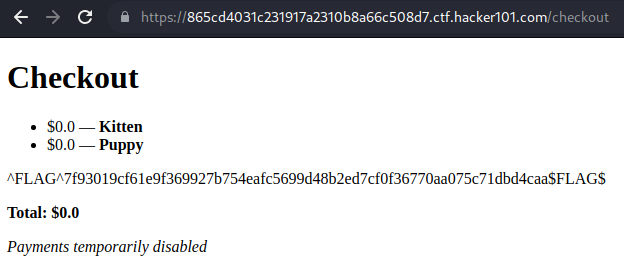
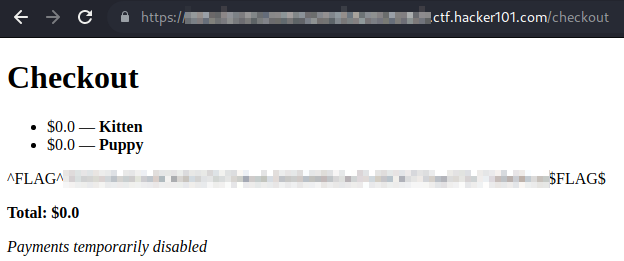
deploy: d0rksec/d0rksec.github.io-dev@83018b52a68894c0d9bd421110d4b9dfe1bed913

Changed region(s): [[0.0913, 0.6437, 0.883, 0.7356], [0.274, 0.0307, 0.7003, 0.092]]

diff --git a/writeups/h101/petshop_pro/index.html b/writeups/h101/petshop_pro/index.html
@@ -1,9 +1,9 @@
 <!doctype html><html lang=en dir=auto><head><meta charset=utf-8><meta http-equiv=x-ua-compatible content="IE=edge"><meta name=viewport content="width=device-width,initial-scale=1,shrink-to-fit=no"><meta name=robots content="index, follow"><title>Hacker101 - Petshop Pro | d0rksec</title><meta name=keywords content="Hacker101,THC Hydra,Dictionary Attack"><meta name=description content="Small webshop with login form to crack"><meta name=author content><link rel=canonical href=https://d0rksec.github.io/writeups/h101/petshop_pro/><link crossorigin=anonymous href=/assets/css/stylesheet.aa8a0c4802ee570e352291e58d608e6b99d48ef678aa4be907095a212e60d6e9.css integrity="sha256-qooMSALuVw41IpHljWCOa5nUjvZ4qkvpBwlaIS5g1uk=" rel="preload stylesheet" as=style><script defer crossorigin=anonymous src=/assets/js/highlight.f413e19d0714851f6474e7ee9632408e58ac146fbdbe62747134bea2fa3415e0.js integrity="sha256-9BPhnQcUhR9kdOfuljJAjlisFG+9vmJ0cTS+ovo0FeA=" onload=hljs.initHighlightingOnLoad()></script>
-<link rel=icon href=https://d0rksec.github.io/favicon.ico><link rel=icon type=image/png sizes=16x16 href=https://d0rksec.github.io/favicon-16x16.png><link rel=icon type=image/png sizes=32x32 href=https://d0rksec.github.io/favicon-32x32.png><link rel=apple-touch-icon href=https://d0rksec.github.io/apple-touch-icon.png><link rel=mask-icon href=https://d0rksec.github.io/safari-pinned-tab.svg><meta name=theme-color content="#2e2e33"><meta name=msapplication-TileColor content="#2e2e33"><noscript><style>#theme-toggle,.top-link{display:none}</style></noscript><meta property="og:title" content="Hacker101 - Petshop Pro"><meta property="og:description" content="Small webshop with login form to crack"><meta property="og:type" content="article"><meta property="og:url" content="https://d0rksec.github.io/writeups/h101/petshop_pro/"><meta property="article:section" content="writeups"><meta property="article:published_time" content="2022-10-16T14:47:35+02:00"><meta property="article:modified_time" content="2022-10-16T14:47:35+02:00"><meta name=twitter:card content="summary"><meta name=twitter:title content="Hacker101 - Petshop Pro"><meta name=twitter:description content="Small webshop with login form to crack"><script type=application/ld+json>{"@context":"https://schema.org","@type":"BreadcrumbList","itemListElement":[{"@type":"ListItem","position":1,"name":"Writeups","item":"https://d0rksec.github.io/writeups/"},{"@type":"ListItem","position":2,"name":"Hacker101","item":"https://d0rksec.github.io/writeups/h101/"},{"@type":"ListItem","position":3,"name":"Hacker101 - Petshop Pro","item":"https://d0rksec.github.io/writeups/h101/petshop_pro/"}]}</script><script type=application/ld+json>{"@context":"https://schema.org","@type":"BlogPosting","headline":"Hacker101 - Petshop Pro","name":"Hacker101 - Petshop Pro","description":"Small webshop with login form to crack","keywords":["Hacker101","THC Hydra","Dictionary Attack"],"articleBody":"What A small webshop with username/password authentication to crack.\nDifficulty: Easy\nFlag0 Hint0: Something looks out of place with checkout Let’s fire up Burp, set Scope, turn off intercept and just walk through the application. This will create a Site map on Target tab.\nI’ve added both images to the cart and examined the checkout request.\nOn the Checkout page we can see “Payments temporarily disabled”.\nHint1: It’s always nice to get free stuff Cart value is passed to the server as URL encoded string. We can use Burp Inspector’s Decode feature to read it as JSON.\n[[0, {\"logo\": \"kitten.jpg\", \"price\": 8.95, \"name\": \"Kitten\", \"desc\": \"8\\\"x10\\\" color glossy photograph of a kitten.\"}]] How about changing the price to 0.00? We can now turn Burp’s intercept on and hit Check Out again.\nNow forward the edited request and grab the free stuff plus the first FLAG.\nFlag1 Hint0: There must be a way to administer the app It is common to have an admin page, even for small sites. They also tend to share common names, like /admin.php.\nTo access admin pages, users must authenticate themselves, using pages like /login.php.\nHint1: Tools may help you find the entrypoint Sure. Let’s check what other pages are there. For this, I used gobuster with a command:\ngobuster dir -u https://20b754ee126051b8cd51afc718af76db.ctf.hacker101.com/ -w /usr/share/wordlists/dirbuster/directory-list-lowercase-2.3-small.txt -z -t 100 -u -w (start with a smaller list for low-hanging fruits)\n-t (default is 10)\n-z (to turn off the annoying “Progress” messages and show only hits)\nGobuster repo and full description for dir mode here.\nCheck the first result (note that the results are folders): Hint2: Tools are also great for finding credentials To see how the page responds, I shoot admin / password credentials:\nYou can see, the error handling gives us too much info about what’s wrong here (“Invalid username”). Better practice is to show “Invalid username or password”, as the attacker has to brute force all combinations of usernames and passwords.\nIn our case, we have to find a correct username first, then we can go for the valid password.\nI’ll brute force username with Hydra, using a wordlist for usernames from SecLists.\nhydra -L ~/repo/SecLists/Usernames/Names/names.txt -p \"password\" 20b754ee126051b8cd51afc718af76db.ctf.hacker101.com https-post-form \"/login:username=^USER^\u0026password=^PASS^:Invalid username\" We’be got the username. Let’s go for the password. I’ll use the same wordlist.\nhydra -l aimil -P ~/repo/SecLists/Usernames/Names/names.txt 20b754ee126051b8cd51afc718af76db.ctf.hacker101.com https-post-form \"/login:username=^USER^\u0026password=^PASS^:Invalid password\" We can use the credentials on /login. It will reveal the Edit feature below the images and show us the second FLAG.\nFlag2 Hint0: Always test every input Now that we are able to edit the product’s parameters, let’s try some basic XSS on the input fields. I’ll use numbers in alert messages to see which attack was successful.\nInternal Server Error.. OK, let’s try them one-by-one, starting with Name.\nSaved the changes, back to Home page. The pop-up message says that Name field is vulnerable to XSS.\nRestore Name to Kitten and add payload to Description. Save.\nBack to Home page. Our XSS on Description field has also worked.\nRemove payload from Description and add to Price.\nAfter saving, the Internal Server Error is back. At least, we know which field has caused it.\nBut, where’s my FLAG?\nHint1: Bugs don’t always appear in a place where the data is entered Let’s put the payload back to Name field, hit Save and head to Home page. Add a Kitten to the Cart.\nThe FLAG is included in the Shopping Cart.\nTakeaway(s) Look what parameters are passed with the form Web login hack can take some time on a VM, relax ","wordCount":"594","inLanguage":"en","datePublished":"2022-10-16T14:47:35+02:00","dateModified":"2022-10-16T14:47:35+02:00","mainEntityOfPage":{"@type":"WebPage","@id":"https://d0rksec.github.io/writeups/h101/petshop_pro/"},"publisher":{"@type":"Organization","name":"d0rksec","logo":{"@type":"ImageObject","url":"https://d0rksec.github.io/favicon.ico"}}}</script></head><body class=dark id=top><script>localStorage.getItem("pref-theme")==="light"&&document.body.classList.remove("dark")</script><header class=header><nav class=nav><div class=logo><a href=https://d0rksec.github.io/ accesskey=h title="d0rksec (Alt + H)">d0rksec</a><div class=logo-switches><button id=theme-toggle accesskey=t title="(Alt + T)"><svg id="moon" xmlns="http://www.w3.org/2000/svg" width="24" height="24" viewBox="0 0 24 24" fill="none" stroke="currentcolor" stroke-width="2" stroke-linecap="round" stroke-linejoin="round"><path d="M21 12.79A9 9 0 1111.21 3 7 7 0 0021 12.79z"/></svg><svg id="sun" xmlns="http://www.w3.org/2000/svg" width="24" height="24" viewBox="0 0 24 24" fill="none" stroke="currentcolor" stroke-width="2" stroke-linecap="round" stroke-linejoin="round"><circle cx="12" cy="12" r="5"/><line x1="12" y1="1" x2="12" y2="3"/><line x1="12" y1="21" x2="12" y2="23"/><line x1="4.22" y1="4.22" x2="5.64" y2="5.64"/><line x1="18.36" y1="18.36" x2="19.78" y2="19.78"/><line x1="1" y1="12" x2="3" y2="12"/><line x1="21" y1="12" x2="23" y2="12"/><line x1="4.22" y1="19.78" x2="5.64" y2="18.36"/><line x1="18.36" y1="5.64" x2="19.78" y2="4.22"/></svg></button></div></div><ul id=menu><li><a href=https://d0rksec.github.io/categories/ title=categories><span>categories</span></a></li><li><a href=https://d0rksec.github.io/tags/ title=tags><span>tags</span></a></li><li><a href=https://d0rksec.github.io/search/ title="search (Alt + /)" accesskey=/><span>search</span></a></li><li><a href=https://d0rksec.github.io/archives/ title=archives><span>archives</span></a></li><li><a href=https://d0rksec.github.io/about title=about><span>about</span></a></li></ul></nav></header><main class=main><article class=post-single><header class=post-header><div class=breadcrumbs><a href=https://d0rksec.github.io/>Home</a>&nbsp;»&nbsp;<a href=https://d0rksec.github.io/writeups/>Writeups</a>&nbsp;»&nbsp;<a href=https://d0rksec.github.io/writeups/h101/>Hacker101</a></div><h1 class=post-title>Hacker101 - Petshop Pro</h1><div class=post-meta><span title='2022-10-16 14:47:35 +0200 +0200'>October 16, 2022</span>&nbsp;·&nbsp;3 min</div></header><div class=toc><details><summary accesskey=c title="(Alt + C)"><span class=details>On this page</span></summary><div class=inner><ul><li><a href=#what aria-label=What>What</a></li><li><a href=#flag0 aria-label=Flag0>Flag0</a><ul><li><a href=#hint0-something-looks-out-of-place-with-checkout aria-label="Hint0: Something looks out of place with checkout">Hint0: Something looks out of place with checkout</a></li><li><a href=#hint1-its-always-nice-to-get-free-stuff aria-label="Hint1: It&amp;rsquo;s always nice to get free stuff">Hint1: It&rsquo;s always nice to get free stuff</a></li></ul></li><li><a href=#flag1 aria-label=Flag1>Flag1</a><ul><li><a href=#hint0-there-must-be-a-way-to-administer-the-app aria-label="Hint0: There must be a way to administer the app">Hint0: There must be a way to administer the app</a></li><li><a href=#hint1-tools-may-help-you-find-the-entrypoint aria-label="Hint1: Tools may help you find the entrypoint">Hint1: Tools may help you find the entrypoint</a></li><li><a href=#hint2-tools-are-also-great-for-finding-credentials aria-label="Hint2: Tools are also great for finding credentials">Hint2: Tools are also great for finding credentials</a></li></ul></li><li><a href=#flag2 aria-label=Flag2>Flag2</a><ul><li><a href=#hint0-always-test-every-input aria-label="Hint0: Always test every input">Hint0: Always test every input</a></li><li><a href=#hint1-bugs-dont-always-appear-in-a-place-where-the-data-is-entered aria-label="Hint1: Bugs don&amp;rsquo;t always appear in a place where the data is entered">Hint1: Bugs don&rsquo;t always appear in a place where the data is entered</a></li></ul></li><li><a href=#takeaways aria-label=Takeaway(s)>Takeaway(s)</a></li></ul></div></details></div><div class=post-content><h3 id=what>What<a hidden class=anchor aria-hidden=true href=#what>#</a></h3><p>A small webshop with username/password authentication to crack.</p><p><img loading=lazy src=Petshop_Pro-home.png alt="Home page"></p><p>Difficulty: Easy</p><h3 id=flag0>Flag0<a hidden class=anchor aria-hidden=true href=#flag0>#</a></h3><h4 id=hint0-something-looks-out-of-place-with-checkout>Hint0: Something looks out of place with checkout<a hidden class=anchor aria-hidden=true href=#hint0-something-looks-out-of-place-with-checkout>#</a></h4><p>Let&rsquo;s fire up Burp, set Scope, turn off intercept and just walk through the application. This will create a Site map on Target tab.</p><p>I&rsquo;ve added both images to the cart and examined the checkout request.</p><p>On the Checkout page we can see <em>&ldquo;Payments temporarily disabled&rdquo;</em>.</p><p><img loading=lazy src=./flag0/Petshop_Pro-F0-H0-0-checkout.png alt=Checkout></p><h4 id=hint1-its-always-nice-to-get-free-stuff>Hint1: It&rsquo;s always nice to get free stuff<a hidden class=anchor aria-hidden=true href=#hint1-its-always-nice-to-get-free-stuff>#</a></h4><p>Cart value is passed to the server as URL encoded string. We can use Burp Inspector&rsquo;s Decode feature to read it as JSON.</p><p><img loading=lazy src=./flag0/Petshop_Pro-F0-H1-0-burp.png alt="cart as JSON"></p><div class=highlight><pre tabindex=0 style=color:#f8f8f2;background-color:#272822;-moz-tab-size:4;-o-tab-size:4;tab-size:4><code class=language-json data-lang=json><span style=display:flex><span>[[<span style=color:#ae81ff>0</span>, {<span style=color:#f92672>&#34;logo&#34;</span>: <span style=color:#e6db74>&#34;kitten.jpg&#34;</span>, <span style=color:#f92672>&#34;price&#34;</span>: <span style=color:#ae81ff>8.95</span>, <span style=color:#f92672>&#34;name&#34;</span>: <span style=color:#e6db74>&#34;Kitten&#34;</span>, <span style=color:#f92672>&#34;desc&#34;</span>: <span style=color:#e6db74>&#34;8\&#34;x10\&#34; color glossy photograph of a kitten.&#34;</span>}]]
-</span></span></code></pre></div><p>How about changing the price to <code>0.00</code>? We can now turn Burp&rsquo;s intercept on and hit Check Out again.</p><p><img loading=lazy src=./flag0/Petshop_Pro-F0-H1-1-edit-price.png alt="Edit price"></p><p>Now forward the edited request and grab the free stuff plus the first FLAG.</p><p><img loading=lazy src=./flag0/Petshop_Pro-F0-H1-2-FLAG.png alt=FLAG></p><h3 id=flag1>Flag1<a hidden class=anchor aria-hidden=true href=#flag1>#</a></h3><h4 id=hint0-there-must-be-a-way-to-administer-the-app>Hint0: There must be a way to administer the app<a hidden class=anchor aria-hidden=true href=#hint0-there-must-be-a-way-to-administer-the-app>#</a></h4><p>It is common to have an admin page, even for small sites. They also tend to share common names, like <code>/admin.php</code>.</p><p>To access admin pages, users must authenticate themselves, using pages like <code>/login.php</code>.</p><h4 id=hint1-tools-may-help-you-find-the-entrypoint>Hint1: Tools may help you find the entrypoint<a hidden class=anchor aria-hidden=true href=#hint1-tools-may-help-you-find-the-entrypoint>#</a></h4><p>Sure. Let&rsquo;s check what other pages are there. For this, I used gobuster with a command:</p><p><img loading=lazy src=./flag1/Petshop_Pro-F1-H1-0-gobuster-command.png alt="gobuster command"></p><div class=highlight><pre tabindex=0 style=color:#f8f8f2;background-color:#272822;-moz-tab-size:4;-o-tab-size:4;tab-size:4><code class=language-bash data-lang=bash><span style=display:flex><span>gobuster dir -u https://20b754ee126051b8cd51afc718af76db.ctf.hacker101.com/ -w /usr/share/wordlists/dirbuster/directory-list-lowercase-2.3-small.txt -z -t <span style=color:#ae81ff>100</span>
+<link rel=icon href=https://d0rksec.github.io/favicon.ico><link rel=icon type=image/png sizes=16x16 href=https://d0rksec.github.io/favicon-16x16.png><link rel=icon type=image/png sizes=32x32 href=https://d0rksec.github.io/favicon-32x32.png><link rel=apple-touch-icon href=https://d0rksec.github.io/apple-touch-icon.png><link rel=mask-icon href=https://d0rksec.github.io/safari-pinned-tab.svg><meta name=theme-color content="#2e2e33"><meta name=msapplication-TileColor content="#2e2e33"><noscript><style>#theme-toggle,.top-link{display:none}</style></noscript><meta property="og:title" content="Hacker101 - Petshop Pro"><meta property="og:description" content="Small webshop with login form to crack"><meta property="og:type" content="article"><meta property="og:url" content="https://d0rksec.github.io/writeups/h101/petshop_pro/"><meta property="article:section" content="writeups"><meta property="article:published_time" content="2022-10-16T14:47:35+02:00"><meta property="article:modified_time" content="2022-10-16T14:47:35+02:00"><meta name=twitter:card content="summary"><meta name=twitter:title content="Hacker101 - Petshop Pro"><meta name=twitter:description content="Small webshop with login form to crack"><script type=application/ld+json>{"@context":"https://schema.org","@type":"BreadcrumbList","itemListElement":[{"@type":"ListItem","position":1,"name":"Writeups","item":"https://d0rksec.github.io/writeups/"},{"@type":"ListItem","position":2,"name":"Hacker101","item":"https://d0rksec.github.io/writeups/h101/"},{"@type":"ListItem","position":3,"name":"Hacker101 - Petshop Pro","item":"https://d0rksec.github.io/writeups/h101/petshop_pro/"}]}</script><script type=application/ld+json>{"@context":"https://schema.org","@type":"BlogPosting","headline":"Hacker101 - Petshop Pro","name":"Hacker101 - Petshop Pro","description":"Small webshop with login form to crack","keywords":["Hacker101","THC Hydra","Dictionary Attack"],"articleBody":"What A small webshop with username/password authentication to crack.\nDifficulty: Easy\nFlag0 Hint0: Something looks out of place with checkout Let’s fire up Burp, set Scope, turn off intercept and just walk through the application. This will create a Site map on Target tab.\nI’ve added both images to the cart and examined the checkout request.\nOn the Checkout page we can see “Payments temporarily disabled”.\nHint1: It’s always nice to get free stuff Cart value is passed to the server as URL encoded string. We can use Burp Inspector’s Decode feature to read it as JSON.\n[[0, {\"logo\": \"kitten.jpg\", \"price\": 8.95, \"name\": \"Kitten\", \"desc\": \"8\\\"x10\\\" color glossy photograph of a kitten.\"}]] How about changing the price to 0.00? We can now turn Burp’s intercept on and hit Check Out again.\nNow forward the edited request and grab the free stuff plus the first FLAG.\nFlag1 Hint0: There must be a way to administer the app It is common to have an admin page, even for small sites. They also tend to share common names, like /admin.php.\nTo access admin pages, users must authenticate themselves, using pages like /login.php.\nHint1: Tools may help you find the entrypoint Sure. Let’s check what other pages are there. For this, I used gobuster with a command:\ngobuster dir -u https://IAMSOSORRY.ctf.hacker101.com/ -w /usr/share/wordlists/dirbuster/directory-list-lowercase-2.3-small.txt -z -t 100 -u -w (start with a smaller list for low-hanging fruits)\n-t (default is 10)\n-z (to turn off the annoying “Progress” messages and show only hits)\nGobuster repo and full description for dir mode here.\nCheck the first result (note that the results are folders): Hint2: Tools are also great for finding credentials To see how the page responds, I shoot admin / password credentials:\nYou can see, the error handling gives us too much info about what’s wrong here (“Invalid username”). Better practice is to show “Invalid username or password”, as the attacker has to brute force all combinations of usernames and passwords.\nIn our case, we have to find a correct username first, then we can go for the valid password.\nI’ll brute force username with Hydra, using a wordlist for usernames from SecLists.\nhydra -L ~/repo/SecLists/Usernames/Names/names.txt -p \"password\" IAMSOSORRY.ctf.hacker101.com https-post-form \"/login:username=^USER^\u0026password=^PASS^:Invalid username\" We’be got the username. Let’s go for the password. I’ll use the same wordlist.\nhydra -l IAMSOSORRY -P ~/repo/SecLists/Usernames/Names/names.txt IAMSOSORRY.ctf.hacker101.com https-post-form \"/login:username=^USER^\u0026password=^PASS^:Invalid password\" We can use the credentials on /login. It will reveal the Edit feature below the images and show us the second FLAG.\nFlag2 Hint0: Always test every input Now that we are able to edit the product’s parameters, let’s try some basic XSS on the input fields. I’ll use numbers in alert messages to see which attack was successful.\nInternal Server Error.. OK, let’s try them one-by-one, starting with Name.\nSaved the changes, back to Home page. The pop-up message says that Name field is vulnerable to XSS.\nRestore Name to Kitten and add payload to Description. Save.\nBack to Home page. Our XSS on Description field has also worked.\nRemove payload from Description and add to Price.\nAfter saving, the Internal Server Error is back. At least, we know which field has caused it.\nBut, where’s my FLAG?\nHint1: Bugs don’t always appear in a place where the data is entered Let’s put the payload back to Name field, hit Save and head to Home page. Add a Kitten to the Cart.\nThe FLAG is included in the Shopping Cart.\nTakeaway(s) Look what parameters are passed with the form Web login hack can take some time on a VM, relax ","wordCount":"594","inLanguage":"en","datePublished":"2022-10-16T14:47:35+02:00","dateModified":"2022-10-16T14:47:35+02:00","mainEntityOfPage":{"@type":"WebPage","@id":"https://d0rksec.github.io/writeups/h101/petshop_pro/"},"publisher":{"@type":"Organization","name":"d0rksec","logo":{"@type":"ImageObject","url":"https://d0rksec.github.io/favicon.ico"}}}</script></head><body class=dark id=top><script>localStorage.getItem("pref-theme")==="light"&&document.body.classList.remove("dark")</script><header class=header><nav class=nav><div class=logo><a href=https://d0rksec.github.io/ accesskey=h title="d0rksec (Alt + H)">d0rksec</a><div class=logo-switches><button id=theme-toggle accesskey=t title="(Alt + T)"><svg id="moon" xmlns="http://www.w3.org/2000/svg" width="24" height="24" viewBox="0 0 24 24" fill="none" stroke="currentcolor" stroke-width="2" stroke-linecap="round" stroke-linejoin="round"><path d="M21 12.79A9 9 0 1111.21 3 7 7 0 0021 12.79z"/></svg><svg id="sun" xmlns="http://www.w3.org/2000/svg" width="24" height="24" viewBox="0 0 24 24" fill="none" stroke="currentcolor" stroke-width="2" stroke-linecap="round" stroke-linejoin="round"><circle cx="12" cy="12" r="5"/><line x1="12" y1="1" x2="12" y2="3"/><line x1="12" y1="21" x2="12" y2="23"/><line x1="4.22" y1="4.22" x2="5.64" y2="5.64"/><line x1="18.36" y1="18.36" x2="19.78" y2="19.78"/><line x1="1" y1="12" x2="3" y2="12"/><line x1="21" y1="12" x2="23" y2="12"/><line x1="4.22" y1="19.78" x2="5.64" y2="18.36"/><line x1="18.36" y1="5.64" x2="19.78" y2="4.22"/></svg></button></div></div><ul id=menu><li><a href=https://d0rksec.github.io/categories/ title=categories><span>categories</span></a></li><li><a href=https://d0rksec.github.io/tags/ title=tags><span>tags</span></a></li><li><a href=https://d0rksec.github.io/search/ title="search (Alt + /)" accesskey=/><span>search</span></a></li><li><a href=https://d0rksec.github.io/archives/ title=archives><span>archives</span></a></li><li><a href=https://d0rksec.github.io/about title=about><span>about</span></a></li></ul></nav></header><main class=main><article class=post-single><header class=post-header><div class=breadcrumbs><a href=https://d0rksec.github.io/>Home</a>&nbsp;»&nbsp;<a href=https://d0rksec.github.io/writeups/>Writeups</a>&nbsp;»&nbsp;<a href=https://d0rksec.github.io/writeups/h101/>Hacker101</a></div><h1 class=post-title>Hacker101 - Petshop Pro</h1><div class=post-meta><span title='2022-10-16 14:47:35 +0200 +0200'>October 16, 2022</span>&nbsp;·&nbsp;3 min</div></header><div class=toc><details><summary accesskey=c title="(Alt + C)"><span class=details>On this page</span></summary><div class=inner><ul><li><a href=#what aria-label=What>What</a></li><li><a href=#flag0 aria-label=Flag0>Flag0</a><ul><li><a href=#hint0-something-looks-out-of-place-with-checkout aria-label="Hint0: Something looks out of place with checkout">Hint0: Something looks out of place with checkout</a></li><li><a href=#hint1-its-always-nice-to-get-free-stuff aria-label="Hint1: It&amp;rsquo;s always nice to get free stuff">Hint1: It&rsquo;s always nice to get free stuff</a></li></ul></li><li><a href=#flag1 aria-label=Flag1>Flag1</a><ul><li><a href=#hint0-there-must-be-a-way-to-administer-the-app aria-label="Hint0: There must be a way to administer the app">Hint0: There must be a way to administer the app</a></li><li><a href=#hint1-tools-may-help-you-find-the-entrypoint aria-label="Hint1: Tools may help you find the entrypoint">Hint1: Tools may help you find the entrypoint</a></li><li><a href=#hint2-tools-are-also-great-for-finding-credentials aria-label="Hint2: Tools are also great for finding credentials">Hint2: Tools are also great for finding credentials</a></li></ul></li><li><a href=#flag2 aria-label=Flag2>Flag2</a><ul><li><a href=#hint0-always-test-every-input aria-label="Hint0: Always test every input">Hint0: Always test every input</a></li><li><a href=#hint1-bugs-dont-always-appear-in-a-place-where-the-data-is-entered aria-label="Hint1: Bugs don&amp;rsquo;t always appear in a place where the data is entered">Hint1: Bugs don&rsquo;t always appear in a place where the data is entered</a></li></ul></li><li><a href=#takeaways aria-label=Takeaway(s)>Takeaway(s)</a></li></ul></div></details></div><div class=post-content><h3 id=what>What<a hidden class=anchor aria-hidden=true href=#what>#</a></h3><p>A small webshop with username/password authentication to crack.</p><p><img loading=lazy src=Petshop_Pro-home.png alt="Home page"></p><p>Difficulty: Easy</p><h3 id=flag0>Flag0<a hidden class=anchor aria-hidden=true href=#flag0>#</a></h3><h4 id=hint0-something-looks-out-of-place-with-checkout>Hint0: Something looks out of place with checkout<a hidden class=anchor aria-hidden=true href=#hint0-something-looks-out-of-place-with-checkout>#</a></h4><p>Let&rsquo;s fire up Burp, set Scope, turn off intercept and just walk through the application. This will create a Site map on Target tab.</p><p>I&rsquo;ve added both images to the cart and examined the checkout request.</p><p>On the Checkout page we can see <em>&ldquo;Payments temporarily disabled&rdquo;</em>.</p><p><img loading=lazy src=./flag0/Petshop_Pro-F0-H0-0-checkout.png alt=Checkout></p><h4 id=hint1-its-always-nice-to-get-free-stuff>Hint1: It&rsquo;s always nice to get free stuff<a hidden class=anchor aria-hidden=true href=#hint1-its-always-nice-to-get-free-stuff>#</a></h4><p>Cart value is passed to the server as URL encoded string. We can use Burp Inspector&rsquo;s Decode feature to read it as JSON.</p><p><img loading=lazy src=./flag0/Petshop_Pro-F0-H1-0-burp.png alt="cart as JSON"></p><div class=highlight><pre tabindex=0 style=color:#f8f8f2;background-color:#272822;-moz-tab-size:4;-o-tab-size:4;tab-size:4><code class=language-json data-lang=json><span style=display:flex><span>[[<span style=color:#ae81ff>0</span>, {<span style=color:#f92672>&#34;logo&#34;</span>: <span style=color:#e6db74>&#34;kitten.jpg&#34;</span>, <span style=color:#f92672>&#34;price&#34;</span>: <span style=color:#ae81ff>8.95</span>, <span style=color:#f92672>&#34;name&#34;</span>: <span style=color:#e6db74>&#34;Kitten&#34;</span>, <span style=color:#f92672>&#34;desc&#34;</span>: <span style=color:#e6db74>&#34;8\&#34;x10\&#34; color glossy photograph of a kitten.&#34;</span>}]]
+</span></span></code></pre></div><p>How about changing the price to <code>0.00</code>? We can now turn Burp&rsquo;s intercept on and hit Check Out again.</p><p><img loading=lazy src=./flag0/Petshop_Pro-F0-H1-1-edit-price.png alt="Edit price"></p><p>Now forward the edited request and grab the free stuff plus the first FLAG.</p><p><img loading=lazy src=./flag0/Petshop_Pro-F0-H1-2-FLAG.png alt=FLAG></p><h3 id=flag1>Flag1<a hidden class=anchor aria-hidden=true href=#flag1>#</a></h3><h4 id=hint0-there-must-be-a-way-to-administer-the-app>Hint0: There must be a way to administer the app<a hidden class=anchor aria-hidden=true href=#hint0-there-must-be-a-way-to-administer-the-app>#</a></h4><p>It is common to have an admin page, even for small sites. They also tend to share common names, like <code>/admin.php</code>.</p><p>To access admin pages, users must authenticate themselves, using pages like <code>/login.php</code>.</p><h4 id=hint1-tools-may-help-you-find-the-entrypoint>Hint1: Tools may help you find the entrypoint<a hidden class=anchor aria-hidden=true href=#hint1-tools-may-help-you-find-the-entrypoint>#</a></h4><p>Sure. Let&rsquo;s check what other pages are there. For this, I used gobuster with a command:</p><p><img loading=lazy src=./flag1/Petshop_Pro-F1-H1-0-gobuster-command.png alt="gobuster command"></p><div class=highlight><pre tabindex=0 style=color:#f8f8f2;background-color:#272822;-moz-tab-size:4;-o-tab-size:4;tab-size:4><code class=language-bash data-lang=bash><span style=display:flex><span>gobuster dir -u https://IAMSOSORRY.ctf.hacker101.com/ -w /usr/share/wordlists/dirbuster/directory-list-lowercase-2.3-small.txt -z -t <span style=color:#ae81ff>100</span>
 </span></span></code></pre></div><p>-u &lt;URL><br>-w &lt;/path/to/wordlist-file> (start with a smaller list for low-hanging fruits)<br>-t &lt;threads> (default is 10)<br>-z (to turn off the annoying &ldquo;Progress&rdquo; messages and show only hits)</p><p>Gobuster repo and full description for dir mode <a href=https://github.com/OJ/gobuster#dir-mode target=_blank>here</a>.</p><p><img loading=lazy src=./flag1/Petshop_Pro-F1-H1-1-gobuster-results.png alt="gobuster results"></p><p>Check the first result (note that the results are folders):
-<img loading=lazy src=./flag1/Petshop_Pro-F1-H1-2-admin-login.png alt="Admin login"></p><h4 id=hint2-tools-are-also-great-for-finding-credentials>Hint2: Tools are also great for finding credentials<a hidden class=anchor aria-hidden=true href=#hint2-tools-are-also-great-for-finding-credentials>#</a></h4><p>To see how the page responds, I shoot <code>admin</code> / <code>password</code> credentials:</p><p><img loading=lazy src=./flag1/Petshop_Pro-F1-H2-0-invalid-username.png alt="Invalid username"></p><p>You can see, the error handling gives us too much info about what&rsquo;s wrong here (&ldquo;Invalid username&rdquo;). Better practice is to show &ldquo;Invalid username or password&rdquo;, as the attacker has to brute force all combinations of usernames and passwords.</p><p>In our case, we have to find a correct username first, then we can go for the valid password.</p><p>I&rsquo;ll brute force <code>username</code> with <a href=https://github.com/vanhauser-thc/thc-hydra target=_blank>Hydra</a>, using a wordlist for usernames from <a href=https://github.com/danielmiessler/SecLists target=_blank>SecLists</a>.</p><div class=highlight><pre tabindex=0 style=color:#f8f8f2;background-color:#272822;-moz-tab-size:4;-o-tab-size:4;tab-size:4><code class=language-bash data-lang=bash><span style=display:flex><span>hydra -L ~/repo/SecLists/Usernames/Names/names.txt -p <span style=color:#e6db74>&#34;password&#34;</span> 20b754ee126051b8cd51afc718af76db.ctf.hacker101.com https-post-form <span style=color:#e6db74>&#34;/login:username=^USER^&amp;password=^PASS^:Invalid username&#34;</span>
-</span></span></code></pre></div><p><img loading=lazy src=./flag1/Petshop_Pro-F1-H2-1-hydra-username.png alt="hydra username"></p><p>We&rsquo;be got the username. Let&rsquo;s go for the password. I&rsquo;ll use the same wordlist.</p><div class=highlight><pre tabindex=0 style=color:#f8f8f2;background-color:#272822;-moz-tab-size:4;-o-tab-size:4;tab-size:4><code class=language-bash data-lang=bash><span style=display:flex><span>hydra -l aimil -P ~/repo/SecLists/Usernames/Names/names.txt 20b754ee126051b8cd51afc718af76db.ctf.hacker101.com https-post-form <span style=color:#e6db74>&#34;/login:username=^USER^&amp;password=^PASS^:Invalid password&#34;</span>
+<img loading=lazy src=./flag1/Petshop_Pro-F1-H1-2-admin-login.png alt="Admin login"></p><h4 id=hint2-tools-are-also-great-for-finding-credentials>Hint2: Tools are also great for finding credentials<a hidden class=anchor aria-hidden=true href=#hint2-tools-are-also-great-for-finding-credentials>#</a></h4><p>To see how the page responds, I shoot <code>admin</code> / <code>password</code> credentials:</p><p><img loading=lazy src=./flag1/Petshop_Pro-F1-H2-0-invalid-username.png alt="Invalid username"></p><p>You can see, the error handling gives us too much info about what&rsquo;s wrong here (&ldquo;Invalid username&rdquo;). Better practice is to show &ldquo;Invalid username or password&rdquo;, as the attacker has to brute force all combinations of usernames and passwords.</p><p>In our case, we have to find a correct username first, then we can go for the valid password.</p><p>I&rsquo;ll brute force <code>username</code> with <a href=https://github.com/vanhauser-thc/thc-hydra target=_blank>Hydra</a>, using a wordlist for usernames from <a href=https://github.com/danielmiessler/SecLists target=_blank>SecLists</a>.</p><div class=highlight><pre tabindex=0 style=color:#f8f8f2;background-color:#272822;-moz-tab-size:4;-o-tab-size:4;tab-size:4><code class=language-bash data-lang=bash><span style=display:flex><span>hydra -L ~/repo/SecLists/Usernames/Names/names.txt -p <span style=color:#e6db74>&#34;password&#34;</span> IAMSOSORRY.ctf.hacker101.com https-post-form <span style=color:#e6db74>&#34;/login:username=^USER^&amp;password=^PASS^:Invalid username&#34;</span>
+</span></span></code></pre></div><p><img loading=lazy src=./flag1/Petshop_Pro-F1-H2-1-hydra-username.png alt="hydra username"></p><p>We&rsquo;be got the username. Let&rsquo;s go for the password. I&rsquo;ll use the same wordlist.</p><div class=highlight><pre tabindex=0 style=color:#f8f8f2;background-color:#272822;-moz-tab-size:4;-o-tab-size:4;tab-size:4><code class=language-bash data-lang=bash><span style=display:flex><span>hydra -l IAMSOSORRY -P ~/repo/SecLists/Usernames/Names/names.txt IAMSOSORRY.ctf.hacker101.com https-post-form <span style=color:#e6db74>&#34;/login:username=^USER^&amp;password=^PASS^:Invalid password&#34;</span>
 </span></span></code></pre></div><p><img loading=lazy src=./flag1/Petshop_Pro-F1-H2-3-hydra-password.png alt="hydra password"></p><p>We can use the credentials on <code>/login</code>. It will reveal the <strong>Edit</strong> feature below the images and show us the second <strong>FLAG</strong>.</p><p><img loading=lazy src=./flag1/Petshop_Pro-F1-H2-4-FLAG.png alt=FLAG></p><h3 id=flag2>Flag2<a hidden class=anchor aria-hidden=true href=#flag2>#</a></h3><h4 id=hint0-always-test-every-input>Hint0: Always test every input<a hidden class=anchor aria-hidden=true href=#hint0-always-test-every-input>#</a></h4><p>Now that we are able to edit the product&rsquo;s parameters, let&rsquo;s try some basic XSS on the input fields. I&rsquo;ll use numbers in alert messages to see which attack was successful.</p><p><img loading=lazy src=./flag2/Petshop_Pro-F2-H0-0-Xss-all-fields.png alt="XSS everywhere"></p><p><img loading=lazy src=./flag2/Petshop_Pro-F2-H0-1-internal-server-error.png alt="Internal Server Error"></p><p>Internal Server Error.. OK, let&rsquo;s try them one-by-one, starting with Name.</p><p><img loading=lazy src=./flag2/Petshop_Pro-F2-H0-2-XSS-name.png alt="XSS Name"></p><p>Saved the changes, back to Home page. The pop-up message says that Name field is vulnerable to XSS.</p><p><img loading=lazy src=./flag2/Petshop_Pro-F2-H0-3-XSS-name-works.png alt="XSS Name works"></p><p>Restore Name to <code>Kitten</code> and add payload to Description. Save.</p><p><img loading=lazy src=./flag2/Petshop_Pro-F2-H0-4-XSS-description.png alt="XSS Description"></p><p>Back to Home page. Our XSS on Description field has also worked.</p><p><img loading=lazy src=./flag2/Petshop_Pro-F2-H0-5-XSS-description-works.png alt="XSS Description works"></p><p>Remove payload from Description and add to Price.</p><p><img loading=lazy src=./flag2/Petshop_Pro-F2-H0-6-XSS-price.png alt="XSS Price"></p><p>After saving, the Internal Server Error is back. At least, we know which field has caused it.</p><p>But, where&rsquo;s my FLAG?</p><h4 id=hint1-bugs-dont-always-appear-in-a-place-where-the-data-is-entered>Hint1: Bugs don&rsquo;t always appear in a place where the data is entered<a hidden class=anchor aria-hidden=true href=#hint1-bugs-dont-always-appear-in-a-place-where-the-data-is-entered>#</a></h4><p>Let&rsquo;s put the payload back to Name field, hit Save and head to Home page. Add a Kitten to the Cart.</p><p>The <strong>FLAG</strong> is included in the Shopping Cart.</p><p><img loading=lazy src=./flag2/Petshop_Pro-F2-H1-0-FLAG.png alt=FLAG></p><h3 id=takeaways>Takeaway(s)<a hidden class=anchor aria-hidden=true href=#takeaways>#</a></h3><ul><li>Look what parameters are passed with the form</li><li>Web login hack can take some time on a VM, relax</li></ul></div><footer class=post-footer><ul class=post-tags><li><a href=https://d0rksec.github.io/tags/hacker101/>Hacker101</a></li><li><a href=https://d0rksec.github.io/tags/thc-hydra/>THC Hydra</a></li><li><a href=https://d0rksec.github.io/tags/dictionary-attack/>Dictionary Attack</a></li></ul><nav class=paginav><a class=prev href=https://d0rksec.github.io/writeups/h101/micro-cms_v2/><span class=title>« Prev</span><br><span>Hacker101 - Micro CMS_v2</span></a>
 <a class=next href=https://d0rksec.github.io/writeups/h101/postbook/><span class=title>Next »</span><br><span>Hacker101 - Postbook</span></a></nav><div class=share-buttons><a target=_blank rel="noopener noreferrer" aria-label="share Hacker101 - Petshop Pro on twitter" href="https://twitter.com/intent/tweet/?text=Hacker101%20-%20Petshop%20Pro&url=https%3a%2f%2fd0rksec.github.io%2fwriteups%2fh101%2fpetshop_pro%2f&hashtags=Hacker101%2cTHCHydra%2cDictionaryAttack"><svg viewBox="0 0 512 512"><path d="M449.446.0C483.971.0 512 28.03 512 62.554v386.892C512 483.97 483.97 512 449.446 512H62.554c-34.524.0-62.554-28.03-62.554-62.554V62.554c0-34.524 28.029-62.554 62.554-62.554h386.892zM195.519 424.544c135.939.0 210.268-112.643 210.268-210.268.0-3.218.0-6.437-.153-9.502 14.406-10.421 26.973-23.448 36.935-38.314-13.18 5.824-27.433 9.809-42.452 11.648 15.326-9.196 26.973-23.602 32.49-40.92-14.252 8.429-30.038 14.56-46.896 17.931-13.487-14.406-32.644-23.295-53.946-23.295-40.767.0-73.87 33.104-73.87 73.87.0 5.824.613 11.494 1.992 16.858-61.456-3.065-115.862-32.49-152.337-77.241-6.284 10.881-9.962 23.601-9.962 37.088.0 25.594 13.027 48.276 32.95 61.456-12.107-.307-23.448-3.678-33.41-9.196v.92c0 35.862 25.441 65.594 59.311 72.49-6.13 1.686-12.72 2.606-19.464 2.606-4.751.0-9.348-.46-13.946-1.38 9.349 29.426 36.628 50.728 68.965 51.341-25.287 19.771-57.164 31.571-91.8 31.571-5.977.0-11.801-.306-17.625-1.073 32.337 21.15 71.264 33.41 112.95 33.41z"/></svg></a><a target=_blank rel="noopener noreferrer" aria-label="share Hacker101 - Petshop Pro on linkedin" href="https://www.linkedin.com/shareArticle?mini=true&url=https%3a%2f%2fd0rksec.github.io%2fwriteups%2fh101%2fpetshop_pro%2f&title=Hacker101%20-%20Petshop%20Pro&summary=Hacker101%20-%20Petshop%20Pro&source=https%3a%2f%2fd0rksec.github.io%2fwriteups%2fh101%2fpetshop_pro%2f"><svg viewBox="0 0 512 512"><path d="M449.446.0C483.971.0 512 28.03 512 62.554v386.892C512 483.97 483.97 512 449.446 512H62.554c-34.524.0-62.554-28.03-62.554-62.554V62.554c0-34.524 28.029-62.554 62.554-62.554h386.892zM160.461 423.278V197.561h-75.04v225.717h75.04zm270.539.0V293.839c0-69.333-37.018-101.586-86.381-101.586-39.804.0-57.634 21.891-67.617 37.266v-31.958h-75.021c.995 21.181.0 225.717.0 225.717h75.02V297.222c0-6.748.486-13.492 2.474-18.315 5.414-13.475 17.767-27.434 38.494-27.434 27.135.0 38.007 20.707 38.007 51.037v120.768H431zM123.448 88.722C97.774 88.722 81 105.601 81 127.724c0 21.658 16.264 39.002 41.455 39.002h.484c26.165.0 42.452-17.344 42.452-39.002-.485-22.092-16.241-38.954-41.943-39.002z"/></svg></a><a target=_blank rel="noopener noreferrer" aria-label="share Hacker101 - Petshop Pro on reddit" href="https://reddit.com/submit?url=https%3a%2f%2fd0rksec.github.io%2fwriteups%2fh101%2fpetshop_pro%2f&title=Hacker101%20-%20Petshop%20Pro"><svg viewBox="0 0 512 512"><path d="M449.446.0C483.971.0 512 28.03 512 62.554v386.892C512 483.97 483.97 512 449.446 512H62.554c-34.524.0-62.554-28.03-62.554-62.554V62.554c0-34.524 28.029-62.554 62.554-62.554h386.892zM446 265.638c0-22.964-18.616-41.58-41.58-41.58-11.211.0-21.361 4.457-28.841 11.666-28.424-20.508-67.586-33.757-111.204-35.278l18.941-89.121 61.884 13.157c.756 15.734 13.642 28.29 29.56 28.29 16.407.0 29.706-13.299 29.706-29.701.0-16.403-13.299-29.702-29.706-29.702-11.666.0-21.657 6.792-26.515 16.578l-69.105-14.69c-1.922-.418-3.939-.042-5.585 1.036-1.658 1.073-2.811 2.761-3.224 4.686l-21.152 99.438c-44.258 1.228-84.046 14.494-112.837 35.232-7.468-7.164-17.589-11.591-28.757-11.591-22.965.0-41.585 18.616-41.585 41.58.0 16.896 10.095 31.41 24.568 37.918-.639 4.135-.99 8.328-.99 12.576.0 63.977 74.469 115.836 166.33 115.836s166.334-51.859 166.334-115.836c0-4.218-.347-8.387-.977-12.493 14.564-6.47 24.735-21.034 24.735-38.001zM326.526 373.831c-20.27 20.241-59.115 21.816-70.534 21.816-11.428.0-50.277-1.575-70.522-21.82-3.007-3.008-3.007-7.882.0-10.889 3.003-2.999 7.882-3.003 10.885.0 12.777 12.781 40.11 17.317 59.637 17.317 19.522.0 46.86-4.536 59.657-17.321 3.016-2.999 7.886-2.995 10.885.008 3.008 3.011 3.003 7.882-.008 10.889zm-5.23-48.781c-16.373.0-29.701-13.324-29.701-29.698.0-16.381 13.328-29.714 29.701-29.714 16.378.0 29.706 13.333 29.706 29.714.0 16.374-13.328 29.698-29.706 29.698zM160.91 295.348c0-16.381 13.328-29.71 29.714-29.71 16.369.0 29.689 13.329 29.689 29.71.0 16.373-13.32 29.693-29.689 29.693-16.386.0-29.714-13.32-29.714-29.693z"/></svg></a><a target=_blank rel="noopener noreferrer" aria-label="share Hacker101 - Petshop Pro on facebook" href="https://facebook.com/sharer/sharer.php?u=https%3a%2f%2fd0rksec.github.io%2fwriteups%2fh101%2fpetshop_pro%2f"><svg viewBox="0 0 512 512"><path d="M449.446.0C483.971.0 512 28.03 512 62.554v386.892C512 483.97 483.97 512 449.446 512H342.978V319.085h66.6l12.672-82.621h-79.272v-53.617c0-22.603 11.073-44.636 46.58-44.636H425.6v-70.34s-32.71-5.582-63.982-5.582c-65.288.0-107.96 39.569-107.96 111.204v62.971h-72.573v82.621h72.573V512h-191.104c-34.524.0-62.554-28.03-62.554-62.554V62.554c0-34.524 28.029-62.554 62.554-62.554h386.892z"/></svg></a><a target=_blank rel="noopener noreferrer" aria-label="share Hacker101 - Petshop Pro on whatsapp" href="https://api.whatsapp.com/send?text=Hacker101%20-%20Petshop%20Pro%20-%20https%3a%2f%2fd0rksec.github.io%2fwriteups%2fh101%2fpetshop_pro%2f"><svg viewBox="0 0 512 512"><path d="M449.446.0C483.971.0 512 28.03 512 62.554v386.892C512 483.97 483.97 512 449.446 512H62.554c-34.524.0-62.554-28.03-62.554-62.554V62.554c0-34.524 28.029-62.554 62.554-62.554h386.892zm-58.673 127.703c-33.842-33.881-78.847-52.548-126.798-52.568-98.799.0-179.21 80.405-179.249 179.234-.013 31.593 8.241 62.428 23.927 89.612l-25.429 92.884 95.021-24.925c26.181 14.28 55.659 21.807 85.658 21.816h.074c98.789.0 179.206-80.413 179.247-179.243.018-47.895-18.61-92.93-52.451-126.81zM263.976 403.485h-.06c-26.734-.01-52.954-7.193-75.828-20.767l-5.441-3.229-56.386 14.792 15.05-54.977-3.542-5.637c-14.913-23.72-22.791-51.136-22.779-79.287.033-82.142 66.867-148.971 149.046-148.971 39.793.014 77.199 15.531 105.329 43.692 28.128 28.16 43.609 65.592 43.594 105.4-.034 82.149-66.866 148.983-148.983 148.984zm81.721-111.581c-4.479-2.242-26.499-13.075-30.604-14.571-4.105-1.495-7.091-2.241-10.077 2.241-2.986 4.483-11.569 14.572-14.182 17.562-2.612 2.988-5.225 3.364-9.703 1.12-4.479-2.241-18.91-6.97-36.017-22.23C231.8 264.15 222.81 249.484 220.198 245s-.279-6.908 1.963-9.14c2.016-2.007 4.48-5.232 6.719-7.847 2.24-2.615 2.986-4.484 4.479-7.472 1.493-2.99.747-5.604-.374-7.846-1.119-2.241-10.077-24.288-13.809-33.256-3.635-8.733-7.327-7.55-10.077-7.688-2.609-.13-5.598-.158-8.583-.158-2.986.0-7.839 1.121-11.944 5.604-4.105 4.484-15.675 15.32-15.675 37.364.0 22.046 16.048 43.342 18.287 46.332 2.24 2.99 31.582 48.227 76.511 67.627 10.685 4.615 19.028 7.371 25.533 9.434 10.728 3.41 20.492 2.929 28.209 1.775 8.605-1.285 26.499-10.833 30.231-21.295 3.732-10.464 3.732-19.431 2.612-21.298-1.119-1.869-4.105-2.99-8.583-5.232z"/></svg></a><a target=_blank rel="noopener noreferrer" aria-label="share Hacker101 - Petshop Pro on telegram" href="https://telegram.me/share/url?text=Hacker101%20-%20Petshop%20Pro&url=https%3a%2f%2fd0rksec.github.io%2fwriteups%2fh101%2fpetshop_pro%2f"><svg viewBox="2 2 28 28"><path d="M26.49 29.86H5.5a3.37 3.37.0 01-2.47-1 3.35 3.35.0 01-1-2.47V5.48A3.36 3.36.0 013 3 3.37 3.37.0 015.5 2h21A3.38 3.38.0 0129 3a3.36 3.36.0 011 2.46V26.37a3.35 3.35.0 01-1 2.47 3.38 3.38.0 01-2.51 1.02zm-5.38-6.71a.79.79.0 00.85-.66L24.73 9.24a.55.55.0 00-.18-.46.62.62.0 00-.41-.17q-.08.0-16.53 6.11a.59.59.0 00-.41.59.57.57.0 00.43.52l4 1.24 1.61 4.83a.62.62.0 00.63.43.56.56.0 00.4-.17L16.54 20l4.09 3A.9.9.0 0021.11 23.15zM13.8 20.71l-1.21-4q8.72-5.55 8.78-5.55c.15.0.23.0.23.16a.18.18.0 010 .06s-2.51 2.3-7.52 6.8z"/></svg></a></div></footer></article></main><footer class=footer><span>&copy; 2022 <a href=https://d0rksec.github.io/>d0rksec</a></span>
 <span>Powered by
